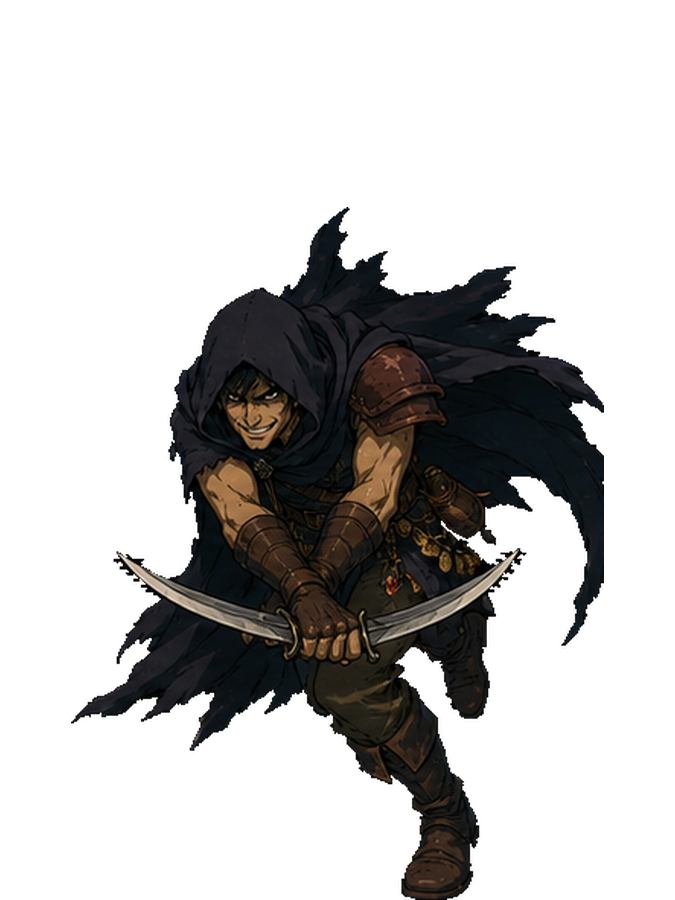
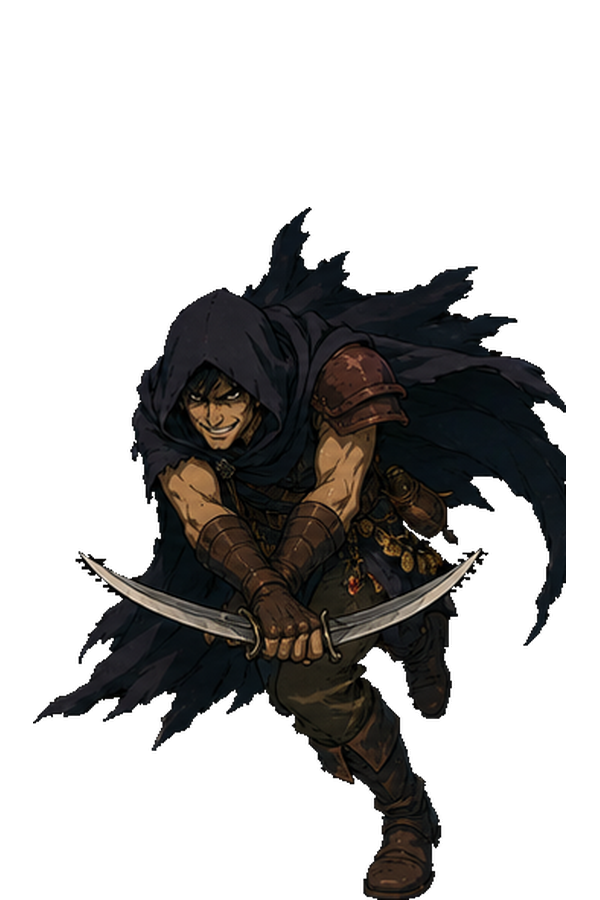
Add remaining enemy attack frames

Changed region(s): [[0.06, 0.2489, 0.96, 1.0], [0.54, 0.28, 0.6, 0.3422]]

diff --git a/questers_demo_v0.99.html b/questers_demo_v0.99.html
@@ -7137,11 +7137,26 @@
 
     const ENEMY_ATTACK_FRAME_DURATIONS = [110, 120, 170, 120];
     const ENEMY_ATTACK_FRAME_SETS = {
+        abyss_overlord: { version: 'v2', frameCount: 6, durations: [85, 95, 115, 130, 100, 85] },
+        ancient_spider: { version: 'v2', frameCount: 6, durations: [75, 85, 105, 125, 95, 80] },
+        angry_boar: { version: 'v2', frameCount: 6, durations: [80, 95, 115, 135, 105, 90] },
+        blood_bat: { version: 'v2', frameCount: 6, durations: [60, 70, 85, 100, 80, 70] },
+        bone_soldier: { version: 'v2', frameCount: 6, durations: [70, 80, 95, 115, 90, 80] },
+        boss_oni_shura: { version: 'v2', frameCount: 6, durations: [70, 80, 95, 115, 90, 80] },
+        crimson_blood_witch: { version: 'v2', frameCount: 6, durations: [85, 95, 115, 130, 100, 85] },
+        elite_minotaur: { version: 'v2', frameCount: 6, durations: [80, 95, 115, 135, 105, 90] },
+        fallen_swordsman: { version: 'v2', frameCount: 6, durations: [70, 80, 95, 115, 90, 80] },
         sick_slime: { version: 'v2', frameCount: 6, durations: [70, 80, 95, 125, 90, 80] },
-        wild_wolf: { version: 'v2', frameCount: 6, durations: [65, 75, 90, 120, 90, 75] },
         greedy_thief: { version: 'v2', frameCount: 6, durations: [60, 70, 85, 95, 85, 75] },
+        iron_crab: { version: 'v2', frameCount: 6, durations: [80, 95, 115, 135, 105, 90] },
+        lost_fox: { version: 'v2', frameCount: 6, durations: [85, 95, 115, 130, 100, 85] },
         nether_mage: { version: 'v2', frameCount: 6, durations: [85, 95, 115, 125, 95, 80] },
-        undead_bone_dragon: { version: 'v2', frameCount: 6, durations: [90, 100, 125, 140, 105, 90] }
+        shadow_assassin: { version: 'v2', frameCount: 6, durations: [60, 70, 85, 100, 80, 70] },
+        stitched_brute: { version: 'v2', frameCount: 6, durations: [80, 95, 115, 135, 105, 90] },
+        stone_golem: { version: 'v2', frameCount: 6, durations: [80, 95, 115, 135, 105, 90] },
+        undead_bone_dragon: { version: 'v2', frameCount: 6, durations: [90, 100, 125, 140, 105, 90] },
+        venom_toad: { version: 'v2', frameCount: 6, durations: [75, 85, 105, 125, 95, 80] },
+        wild_wolf: { version: 'v2', frameCount: 6, durations: [65, 75, 90, 120, 90, 75] },
     };
 
     function getEnemyAttackFrames(enemy) {

diff --git a/tools/build_enemy_attack_frames.py b/tools/build_enemy_attack_frames.py
@@ -62,6 +62,18 @@ def parse_args() -> argparse.Namespace:
         help="Fraction of the target frame occupied by the largest source frame. Default: 0.94.",
     )
     parser.add_argument(
+        "--frame-width",
+        type=int,
+        default=FRAME_WIDTH,
+        help=f"Output frame width in pixels. Default: {FRAME_WIDTH}.",
+    )
+    parser.add_argument(
+        "--frame-height",
+        type=int,
+        default=FRAME_HEIGHT,
+        help=f"Output frame height in pixels. Default: {FRAME_HEIGHT}.",
+    )
+    parser.add_argument(
         "--extract-mode",
         choices=("auto", "components", "slots"),
         default="auto",
@@ -260,24 +272,34 @@ def crop_content(image: Image.Image, alpha_threshold: int) -> Image.Image | None
     return image.crop(bbox)
 
 
-def get_shared_scale(contents: list[Image.Image | None], padding_ratio: float) -> float:
+def get_shared_scale(
+    contents: list[Image.Image | None],
+    padding_ratio: float,
+    frame_size: tuple[int, int],
+) -> float:
     visible = [content for content in contents if content is not None]
     if not visible:
         raise SystemExit("No visible frame content found after chroma-key removal.")
     max_width = max(content.width for content in visible)
     max_height = max(content.height for content in visible)
-    return min((FRAME_WIDTH * padding_ratio) / max_width, (FRAME_HEIGHT * padding_ratio) / max_height)
+    frame_width, frame_height = frame_size
+    return min((frame_width * padding_ratio) / max_width, (frame_height * padding_ratio) / max_height)
 
 
-def compose_frame(content: Image.Image | None, scale: float) -> Image.Image:
-    canvas = Image.new("RGBA", (FRAME_WIDTH, FRAME_HEIGHT), (0, 0, 0, 0))
+def compose_frame(
+    content: Image.Image | None,
+    scale: float,
+    frame_size: tuple[int, int],
+) -> Image.Image:
+    frame_width, frame_height = frame_size
+    canvas = Image.new("RGBA", (frame_width, frame_height), (0, 0, 0, 0))
     if content is None:
         return canvas
     width = max(1, int(round(content.width * scale)))
     height = max(1, int(round(content.height * scale)))
     resized = content.resize((width, height), Image.Resampling.LANCZOS)
-    x = (FRAME_WIDTH - width) // 2
-    y = FRAME_HEIGHT - height
+    x = (frame_width - width) // 2
+    y = frame_height - height
     canvas.alpha_composite(resized, (x, y))
     return canvas
 
@@ -389,17 +411,22 @@ def paint_checkerboard(image: Image.Image, tile: int = 24) -> None:
             )
 
 
-def render_preview(frames: list[Image.Image], output: Path) -> None:
+def render_preview(
+    frames: list[Image.Image],
+    output: Path,
+    frame_size: tuple[int, int],
+) -> None:
     gap = 16
     columns = 6
     rows = math.ceil(len(frames) / columns)
-    width = columns * FRAME_WIDTH + (columns - 1) * gap
-    height = rows * FRAME_HEIGHT + max(0, rows - 1) * gap
+    frame_width, frame_height = frame_size
+    width = columns * frame_width + (columns - 1) * gap
+    height = rows * frame_height + max(0, rows - 1) * gap
     preview = Image.new("RGBA", (width, height), (255, 255, 255, 255))
     paint_checkerboard(preview)
     for index, frame in enumerate(frames):
-        x = (index % columns) * (FRAME_WIDTH + gap)
-        y = (index // columns) * (FRAME_HEIGHT + gap)
+        x = (index % columns) * (frame_width + gap)
+        y = (index // columns) * (frame_height + gap)
         preview.alpha_composite(frame, (x, y))
     output.parent.mkdir(parents=True, exist_ok=True)
     preview.save(output)
@@ -407,6 +434,9 @@ def render_preview(frames: list[Image.Image], output: Path) -> None:
 
 def main() -> None:
     args = parse_args()
+    if args.frame_width <= 0 or args.frame_height <= 0:
+        raise SystemExit("Frame dimensions must be positive integers.")
+    frame_size = (args.frame_width, args.frame_height)
     source = Image.open(args.input).convert("RGBA")
     keyed = remove_chroma_key(source, args.key_color, args.key_threshold)
     component_frames = None
@@ -420,10 +450,10 @@ def main() -> None:
             for slot in split_strip(keyed)
         ]
     contents = [crop_content(frame, args.alpha_threshold) for frame in component_frames]
-    scale = get_shared_scale(contents, args.padding_ratio)
+    scale = get_shared_scale(contents, args.padding_ratio, frame_size)
     frames = [
         remove_small_components(
-            remove_chroma_fringe(compose_frame(content, scale), args.alpha_threshold),
+            remove_chroma_fringe(compose_frame(content, scale, frame_size), args.alpha_threshold),
             args.alpha_threshold,
             args.min_component_area,
             min(args.min_component_ratio, 0.005),
@@ -438,7 +468,7 @@ def main() -> None:
         frame.save(output, format="WEBP", lossless=True, quality=95, method=6)
 
     if args.preview:
-        render_preview(frames, Path(args.preview))
+        render_preview(frames, Path(args.preview), frame_size)
 
 
 if __name__ == "__main__":

diff --git a/docs/superpowers/specs/2026-06-26-enemy-attack-frame-regeneration-design.md b/docs/superpowers/specs/2026-06-26-enemy-attack-frame-regeneration-design.md
@@ -6,15 +6,30 @@ Enemy attack animations currently feel too generic because the visible motion is
 
 ## Approved Scope
 
-Create a sample batch for five representative enemies before expanding to the full enemy roster:
+The approved rollout now covers all 20 current enemy battle-art slugs. The first five enemies were used as the pilot batch, then the same pipeline was extended to the remaining roster:
 
 - `sick_slime`
-- `wild_wolf`
+- `bone_soldier`
 - `greedy_thief`
+- `blood_bat`
+- `lost_fox`
+- `wild_wolf`
+- `ancient_spider`
+- `venom_toad`
+- `angry_boar`
+- `iron_crab`
+- `fallen_swordsman`
 - `nether_mage`
+- `stone_golem`
+- `shadow_assassin`
+- `stitched_brute`
+- `elite_minotaur`
+- `crimson_blood_witch`
 - `undead_bone_dragon`
+- `boss_oni_shura`
+- `abyss_overlord`
 
-Each sample enemy gets six new attack frames:
+Each enemy gets six new attack frames:
 
 - `assets/enemies/attack/<slug>_attack_01_v2.webp`
 - `assets/enemies/attack/<slug>_attack_02_v2.webp`
@@ -27,22 +42,26 @@ Existing `v1` assets remain in place and are not overwritten.
 
 ## Animation Direction
 
-The five sample enemies should demonstrate distinct body language:
+Every enemy should demonstrate distinct body language:
 
 - `sick_slime`: squash down, swell with pressure, launch acid or body mass forward, recoil into idle.
 - `wild_wolf`: crouch, spring forward, bite or claw at peak reach, land and recover.
 - `greedy_thief`: draw weapon, dash in, rapid stab or slash, withdraw into guarded stance.
 - `nether_mage`: gather spectral energy, raise staff or hands, release ghostfire, robe settles.
 - `undead_bone_dragon`: spread wings, rear back, breathe or strike, fold back toward idle.
+- Humanoid weapon enemies: draw, lunge diagonally left-down, strike, and recover with weapon-readable poses.
+- Heavy beast or brute enemies: compress, charge or slam diagonally left-down, then recoil into idle.
+- Caster or occult enemies: gather compact spell energy, release toward the lower-left player position, then settle.
+- Wide-bodied enemies such as `ancient_spider` and `iron_crab`: keep their wide silhouette and avoid shrinking during the attack.
 
 The frames must keep each enemy's existing silhouette family, palette, facing direction, proportions, and key readable features.
 Because enemies stand on the right side of the battle screen, every attack pose must aim diagonally left-down toward the player character. Any rightward attack thrust, slash, pounce, or projectile direction is invalid.
 
 ## Asset Pipeline
 
-For each sample enemy, use the existing in-game battle sprite as the identity seed. Generate one horizontal six-frame animation strip per enemy rather than generating individual frames independently. This reduces frame-to-frame identity drift.
+For each enemy, use the existing in-game battle sprite as the identity seed. Generate one horizontal six-frame animation strip per enemy rather than generating individual frames independently. This reduces frame-to-frame identity drift.
 
-The generated strip should use a clean removable background or transparent output, contain one row of six equal slots, and avoid scenery, labels, UI, shadows, or extra characters. After generation, split and normalize frames to the existing game frame size and bottom-center alignment. The final exported format should be WebP to match existing enemy assets.
+The generated strip should use a clean removable background or transparent output, contain one row of six equal slots, and avoid scenery, labels, UI, shadows, or extra characters. After generation, split and normalize frames to a transparent WebP canvas with a 900px height and a width derived from the enemy's battle-art canvas aspect ratio. This keeps wide enemies from visually shrinking when the browser swaps from the battle sprite to attack frames. Frames should use bottom-center alignment.
 
 Keep source or review artifacts under a source/review path if needed, but only the accepted normalized `v2` frames should be referenced by runtime code.
 
@@ -50,8 +69,7 @@ Keep source or review artifacts under a source/review path if needed, but only t
 
 Update the enemy attack-frame lookup so it can use per-enemy animation metadata:
 
-- Sample enemies use the six `v2` frames.
-- Other enemies continue using the existing four `v1` frames.
+- All current enemy slugs use the six `v2` frames.
 - If a `v2` frame is missing or fails to load, the enemy should still be able to fall back to the existing `v1` frame convention.
 
 The runtime timing should support variable frame counts. Sample `v2` animations should use a rhythm closer to player attacks, with quick anticipation, a strong impact frame, and a short recovery. Enemy attack VFX timing should remain tied to the calculated impact delay.
@@ -61,11 +79,12 @@ The runtime timing should support variable frame counts. Sample `v2` animations 
 Basic verification after implementation:
 
 - Confirm the new files exist and match the naming convention.
+- Confirm attack frame canvas sizes match each enemy's battle-art aspect ratio.
 - Run the existing release or asset checks available for this repository.
-- Run the HTML client through a local server and inspect at least the five sample enemies in battle.
-- Confirm non-sample enemies still attack with the old `v1` frames.
+- Inspect a full-roster contact sheet for direction, scale, and obvious cropping problems.
+- Confirm the runtime now resolves all current enemies to six `v2` frames.
 - Confirm unrelated untracked files are not staged or committed.
 
 ## Rollout Plan
 
-This change is intentionally a sample batch. After the user approves the five sample animations in-game, extend the same pipeline to the remaining enemy roster in a second pass.
+The initial sample batch has been expanded to the full current enemy roster. Future enemy additions should include matching six-frame `v2` attack frames and a canvas width derived from the new battle-art aspect ratio.

diff --git a/docs/superpowers/plans/2026-06-27-enemy-attack-90s-cel-style-redo.md b/docs/superpowers/plans/2026-06-27-enemy-attack-90s-cel-style-redo.md
@@ -2,9 +2,9 @@
 
 > **For agentic workers:** REQUIRED SUB-SKILL: Use superpowers:subagent-driven-development (recommended) or superpowers:executing-plans to implement this plan task-by-task. Steps use checkbox (`- [ ]`) syntax for tracking.
 
-**Goal:** Replace the five rejected enemy `v2` attack samples with six-frame attack frames derived from the existing 1990s cel-style enemy battle illustrations while preserving the existing runtime integration and left-down attack direction.
+**Goal:** Replace the rejected enemy `v2` attack samples with six-frame attack frames derived from the existing 1990s cel-style enemy battle illustrations while preserving runtime integration and left-down attack direction. The scope has since expanded from the original five sample enemies to the full current enemy roster.
 
-**Architecture:** Keep the current runtime contract unchanged: five sample enemies still resolve to `assets/enemies/attack/<slug>_attack_01_v2.webp` through `_06_v2.webp`, and all other enemies keep `v1` fallback behavior. Generate one six-slot strip per enemy, normalize with `tools/build_enemy_attack_frames.py`, and review outputs through contact sheets before committing.
+**Architecture:** Keep the runtime contract unchanged: configured enemies resolve to `assets/enemies/attack/<slug>_attack_01_v2.webp` through `_06_v2.webp`, while each `v2` frame keeps a `v1` fallback source. Generate one six-slot strip per enemy, normalize with `tools/build_enemy_attack_frames.py`, and review outputs through contact sheets before committing. For scale correctness, output canvases use 900px height and a width derived from each enemy's battle-art aspect ratio, so wide enemies do not shrink during the attack swap.
 
 **Tech Stack:** Built-in `image_gen` for raster strip generation, Pillow/Python for contact sheets and alpha validation, existing `tools/build_enemy_attack_frames.py` for normalization, Node test runner for runtime/asset checks.
 
@@ -12,7 +12,7 @@
 
 ## File Structure
 
-- Modify regenerated runtime assets: `assets/enemies/attack/<slug>_attack_01_v2.webp` through `_06_v2.webp` for `sick_slime`, `wild_wolf`, `greedy_thief`, `nether_mage`, and `undead_bone_dragon`.
+- Modify regenerated runtime assets: `assets/enemies/attack/<slug>_attack_01_v2.webp` through `_06_v2.webp` for all current enemy slugs.
 - Modify regenerated source previews: `assets/source/enemies/attack/v2_samples/<slug>_attack_preview_v2.png`.
 - Modify source strips only after a strip is accepted: `assets/source/enemies/attack/v2_samples/<slug>_attack_strip_v2_source.png`.
 - Read style spec: `docs/superpowers/specs/2026-06-27-enemy-attack-90s-cel-style-design.md`.

diff --git a/docs/superpowers/plans/2026-06-26-enemy-attack-frame-regeneration.md b/docs/superpowers/plans/2026-06-26-enemy-attack-frame-regeneration.md
@@ -2,6 +2,8 @@
 
 > **For agentic workers:** REQUIRED SUB-SKILL: Use superpowers:subagent-driven-development (recommended) or superpowers:executing-plans to implement this plan task-by-task. Steps use checkbox (`- [ ]`) syntax for tracking.
 
+> Status note: this plan records the original five-enemy pilot. The current implementation has expanded the same `v2` six-frame pipeline to the full enemy roster, with per-enemy canvas widths derived from battle-art aspect ratio instead of a single fixed `675x900` canvas.
+
 **Goal:** Generate and integrate real six-frame attack animations for five sample enemies without relying on CSS stretch effects.
 
 **Architecture:** Use existing battle sprites as identity seeds, generate one six-slot strip per enemy, normalize each strip into `675x900` transparent WebP frames, and update runtime frame lookup to prefer configured `v2` six-frame sets. Keep non-sample enemies on the existing `v1` four-frame convention.
